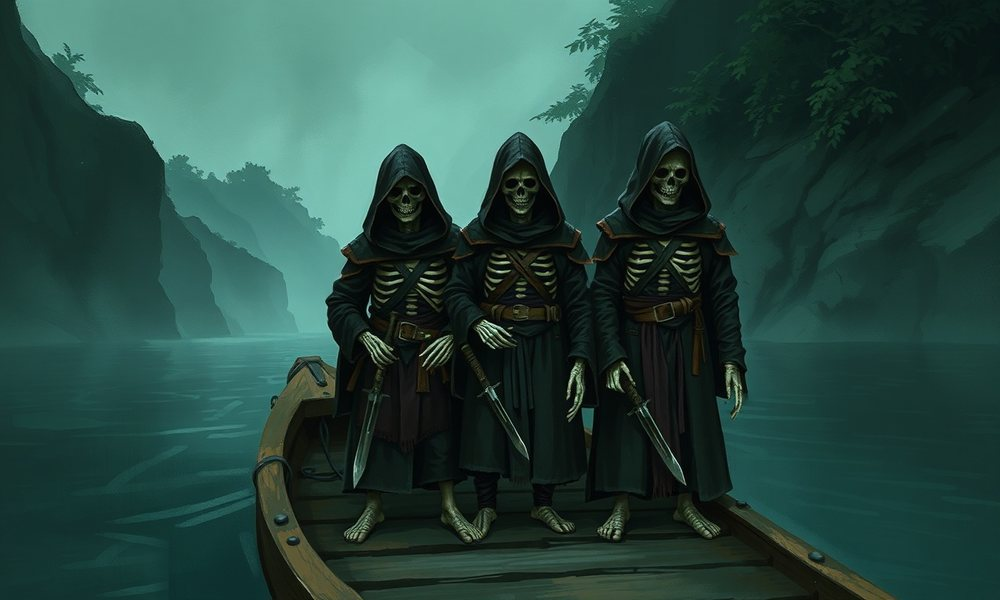
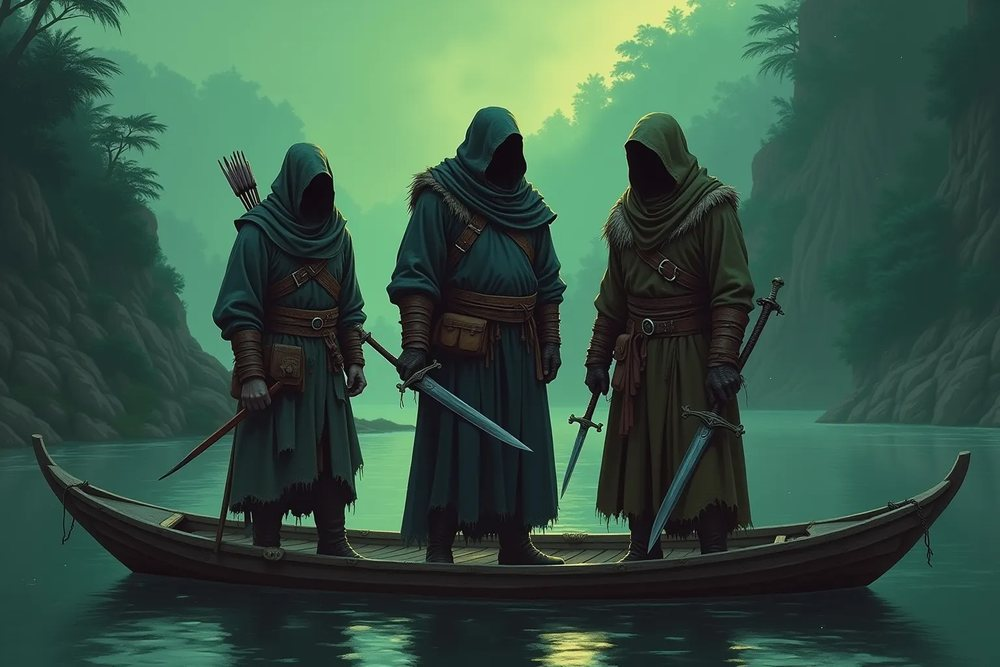
feat: Untote klug erneuern und vermummte Diener im Bild
- Neue Aktion „Erneuern“ (Gefolge, Spieltisch, Lange Rast): verbraucht
  den kleinsten freien Platz ab Grad 3, erneuert bis zu 4 Untote
  (Grad 4: 6) für 24 Stunden ab jetzt
- Dialog „Lange Rast“: Erinnerung, vor der Rast mit einem übrigen Platz
  zu erneuern; Arkane Erholung weist auf fehlenden Grad-3-Platz hin
- Taktik-Handbuch: „Tote erwecken: klug erneuern“ mit Abend-Trick,
  Arkaner Erholung, Höchstzahl ohne Nekromantenschule, Aufbauplan
- Regeltexte: 24 Stunden ab dem Wirken, Verfall entscheidet der DM;
  neue DM-Frage zu verfallenen Untoten
- Neues Bild der stummen Diener mit echter Vermummung (FLUX.1-dev über
  Hugging Face, kostenlos), Bildunterschrift und Bildausschnitt angepasst

diff --git a/app/src/routes/gefolge/+page.svelte b/app/src/routes/gefolge/+page.svelte
@@ -5,6 +5,7 @@
 	import Callout from '$lib/components/Callout.svelte';
 	import Markdown from '$lib/components/Markdown.svelte';
 	import SourceChip from '$lib/components/SourceChip.svelte';
+	import RenewMinions from '$lib/components/RenewMinions.svelte';
 	import { campaign } from '$lib/stores/campaign.svelte';
 	import { FAMILIAR_MATERIAL, addMinion, removeMinion, summonFamiliar } from '$lib/game';
 	import { diceDe, fmtMod } from '$lib/rules';
@@ -39,7 +40,7 @@
 {#if cr.retinueImage}
 	{@const img = cr.retinueImage}
 	<figure class="panel relative mb-6 overflow-hidden">
-		<img src="/api/assets/{img.file}" alt={img.title} class="h-56 w-full object-cover object-[50%_42%] sm:h-72" />
+		<img src="/api/assets/{img.file}" alt={img.title} class="h-60 w-full object-cover object-[50%_20%] sm:h-80" />
 		<figcaption class="absolute inset-x-0 bottom-0 bg-gradient-to-t from-black/85 via-black/55 to-transparent px-5 pt-12 pb-4">
 			<div class="title-display text-2xl text-white sm:text-3xl">{img.title}</div>
 			<p class="mt-1 max-w-2xl text-sm leading-relaxed text-white/80">{img.caption}</p>
@@ -52,7 +53,8 @@
 <section class="panel panel-glow mb-6 p-5">
 	<div class="mb-4 flex flex-wrap items-center justify-between gap-3">
 		<div class="flex items-center gap-2"><Skull size={18} class="text-s-nekro" /><h2 class="title-display text-3xl">Deine Untoten</h2></div>
-		<div class="flex gap-2">
+		<div class="flex flex-wrap gap-2">
+			<RenewMinions />
 			<button class="btn btn-sm" onclick={() => addMinion('skelett')}><Plus size={13} />Skelett</button>
 			<button class="btn btn-sm" onclick={() => addMinion('zombie')}><Plus size={13} />Zombie</button>
 		</div>
@@ -64,7 +66,7 @@
 				{@const act = block?.actions.find((a) => a.name === block.loadout?.find((l) => l.item === m.gear)?.action)}
 				<div class="sunken p-3">
 					<div class="flex items-center gap-3">
-						<button onclick={() => minion(m.id, (x) => (x.renewed = !x.renewed))} title={m.renewed ? 'Kontrolle erneuert' : 'Kontrolle läuft aus! Erneuern: 1 Minute, Grad-3-Platz für bis zu 4'}>
+						<button onclick={() => minion(m.id, (x) => (x.renewed = !x.renewed))} title={m.renewed ? 'Heute erneuert: gehorcht 24 Stunden ab dem Erneuern' : 'Noch erneuern, spätestens 24 Stunden nach dem letzten Mal. Am klügsten abends vor der langen Rast mit einem Platz, den du nicht mehr brauchst'}>
 							{#if m.renewed}<CircleCheck size={18} class="text-life" />{:else}<CircleAlert size={18} class="text-warn" />{/if}
 						</button>
 						<input class="min-w-0 flex-1 bg-transparent text-sm font-medium outline-none" value={m.name} onchange={(e) => minion(m.id, (x) => (x.name = e.currentTarget.value))} aria-label="Name" />
@@ -87,10 +89,11 @@
 			{/each}
 		</div>
 	{:else}
-		<p class="text-sm text-ink-3">Noch keine Untoten erschaffen. Beim Erwecken bekommen sie ihre Waffen: erst den Kurzbogen, dann die beiden Society-Dolche. Nach jeder langen Rast markiert das Grimoire sie als „Kontrolle erneuern“.</p>
+		<p class="text-sm text-ink-3">Noch keine Untoten erschaffen. Beim Erwecken bekommen sie ihre Waffen: erst den Kurzbogen, dann die beiden Society-Dolche. Nach jeder langen Rast markiert das Grimoire sie als „noch erneuern“.</p>
 	{/if}
-	<div class="mt-4 grid gap-3 md:grid-cols-3">
-		<Callout type="rule" title="24-Stunden-Kontrolle">Vor Ablauf erneut wirken (1 Minute, alle in 3 m). Ein Grad-3-Platz hält bis zu 4 Untote. Verfallene Untote sind frei und meist feindlich.</Callout>
+	<div class="mt-4 grid gap-3 md:grid-cols-2 2xl:grid-cols-4">
+		<Callout type="rule" title="24 Stunden ab dem Wirken">Die Kontrolle hält 24 Stunden ab dem Wirken, nicht ab einer Rast. Erneuern darfst du jederzeit vorher: 1 Minute, alle in 3 m, ein Grad-3-Platz für bis zu 4 Untote (Grad 4: 6). Verfällt sie, gehorchen sie nicht mehr. Was sie dann tun, entscheidet der DM.</Callout>
+		<Callout type="tip" title="Abends erneuern">Erneuere kurz vor der langen Rast mit einem Grad-3-Platz, den du nicht mehr brauchst: Die Rast gibt ihn gleich zurück. Tagsüber bleiben dir alle Grad-3-Plätze. Keiner mehr frei? Nach einer kurzen Rast holt die Arkane Erholung einen zurück. <a class="text-astral hover:underline" href="/archiv/taktik#tote-erwecken-klug-erneuern">Mehr im Taktik-Handbuch</a></Callout>
 		<Callout type="tip" title="Ein Befehl für alle">Eine Bonusaktion steuert alle Untoten in 18 m mit demselben Befehl. Allgemeine Befehle („Bewacht den Gang“) laufen ohne weitere Bonusaktionen.</Callout>
 		<Callout type="warning" title="Nur Humanoide">Knochen werden zum Skelett, Leichen zum Zombie, immer von kleinen oder mittelgroßen Humanoiden. Tierkadaver gehen nicht.</Callout>
 	</div>

diff --git a/app/src/lib/components/RestDialog.svelte b/app/src/lib/components/RestDialog.svelte
@@ -1,19 +1,23 @@
 <script lang="ts">
 	/** Kurze und lange Rast mit Trefferwürfeln, Arkaner Erholung und Trance-Wahl. */
-	import { Moon, Coffee, Dices, Sparkles } from '@lucide/svelte';
+	import { Moon, Coffee, Dices, Sparkles, Skull } from '@lucide/svelte';
 	import Modal from './Modal.svelte';
 	import Pips from './Pips.svelte';
 	import TranceSelect from './TranceSelect.svelte';
 	import SpellSets from './SpellSets.svelte';
+	import RenewMinions from './RenewMinions.svelte';
 	import { campaign } from '$lib/stores/campaign.svelte';
 	import { ui } from '$lib/stores/ui.svelte';
 	import { arcaneRecovery, longRest, spendHitDie } from '$lib/game';
-	import { featureLeft, hitDiceLeft, slotTotals } from '$lib/rules';
+	import { featureLeft, hitDiceLeft, lowestFreeSlot, slotTotals } from '$lib/rules';
 
 	const c = $derived(campaign.data.character);
 	const s = $derived(campaign.data.state);
 	const recoveryLeft = $derived(featureLeft(c, s, 'arkane-erholung'));
 	const budget = $derived(Math.ceil(c.level / 2));
+	/** Untote, die heute noch erneuert werden müssen, und ob dafür ein Grad-3-Platz frei ist */
+	const openMinions = $derived(s.minions.filter((m) => !m.renewed).length);
+	const free3 = $derived(lowestFreeSlot(c, s, 3));
 
 	let picked = $state<number[]>([]);
 	let healed = $state<number[]>([]);
@@ -65,6 +69,9 @@
 				<p class="text-sm text-ink-3">Heute schon genutzt. Wieder verfügbar nach der nächsten langen Rast.</p>
 			{:else}
 				<p class="mb-3 text-sm text-ink-2">Wähle verbrauchte Plätze, zusammen höchstens <b class="text-ink">{budget} Grade</b>. Gewählt: <b class="num text-ink">{pickedSum}</b></p>
+				{#if openMinions && free3 === null}
+					<p class="mb-3 rounded-lg bg-s-nekro/10 px-3 py-2 text-xs text-ink-2"><Skull size={12} class="mr-1 inline text-s-nekro" />Deine Untoten brauchen heute noch einen Grad-3-Platz. Hol ihn hier zurück, wenn du ihn nicht für etwas anderes brauchst.</p>
+				{/if}
 				<div class="flex flex-wrap gap-2">
 					{#each slotTotals(c) as sl (sl.level)}
 						{#each Array.from({ length: Math.max(0, usedOf(sl.level)) }) as _, i (i)}
@@ -99,8 +106,25 @@
 			<li>Alle Zauberplätze, Sternenschritt, Arkane Erholung und die Ohrring-Botschaft zurück</li>
 			<li>Trefferwürfel: +{Math.max(1, Math.floor(c.level / 2))} (jetzt {hitDiceLeft(c, s)}/{c.level})</li>
 			<li>Konzentration, Schild und Unsichtbarer Diener enden. Erschöpfung −1, falls vorhanden.</li>
-			{#if s.minions.length}<li class="text-warn">Untote: Die 24 Stunden laufen weiter. Kontrolle erneuern nicht vergessen (1 Minute, Grad-3-Platz für bis zu 4).</li>{/if}
 		</ul>
+		{#if s.minions.length}
+			<div class="sunken p-4">
+				<div class="mb-1 flex items-center gap-2 font-medium"><Skull size={15} class="text-s-nekro" />Untote vor der Rast erneuern</div>
+				{#if openMinions}
+					<p class="mb-2 text-xs leading-relaxed text-ink-2">
+						Jetzt ist der beste Moment: Die Rast gibt dir den Platz gleich zurück, und deine Untoten gehorchen 24 Stunden ab jetzt. {openMinions} von {s.minions.length} noch nicht erneuert.
+					</p>
+					{#if free3 === null}
+						<p class="mb-2 text-xs text-warn">
+							{recoveryLeft > 0 ? 'Kein Grad-3-Platz frei: Mach zuerst eine kurze Rast, die Arkane Erholung holt einen zurück.' : 'Kein Grad-3-Platz und keine Arkane Erholung mehr: Die Kontrolle hält nur bis 24 Stunden nach dem letzten Erneuern. Plane morgen früh einen Grad-3-Platz dafür ein.'}
+						</p>
+					{/if}
+				{:else}
+					<p class="mb-2 text-xs text-ink-2">Heute schon erneuert. Hast du morgens erneuert, kannst du jetzt mit einem übrigen Platz noch einmal: Dann gehorchen sie bis morgen Abend.</p>
+				{/if}
+				<RenewMinions />
+			</div>
+		{/if}
 		<div class="sunken p-4">
 			<div class="mb-2 font-medium">Astrale Trance: Übung für heute</div>
 			<TranceSelect />

diff --git a/app/src/lib/components/print/PRetinue.svelte b/app/src/lib/components/print/PRetinue.svelte
@@ -47,8 +47,9 @@
 			/>
 		{/each}
 	</div>
-	<div class="grid g3" style="gap: 3mm; margin-top: 3mm">
-		<div class="callout callout-rule"><div class="callout-title" data-label="Regel">24-Stunden-Kontrolle</div><p class="small">Vor Ablauf erneut wirken (1 Minute, alle in 3 m). Ein Grad-3-Platz hält bis zu 4 Untote. Verfallene Untote sind frei und meist feindlich.</p></div>
+	<div class="grid g2" style="gap: 3mm; margin-top: 3mm">
+		<div class="callout callout-rule"><div class="callout-title" data-label="Regel">24 Stunden ab dem Wirken</div><p class="small">Die Kontrolle hält 24 Stunden ab dem Wirken, nicht ab einer Rast. Erneuern darfst du jederzeit vorher: 1 Minute, alle in 3 m, ein Grad-3-Platz für bis zu 4 Untote (Grad 4: 6). Verfällt sie, gehorchen sie nicht mehr. Was sie dann tun, entscheidet der DM.</p></div>
+		<div class="callout callout-tip"><div class="callout-title" data-label="Tipp">Abends erneuern</div><p class="small">Erneuere kurz vor der langen Rast mit einem Grad-3-Platz, den du nicht mehr brauchst: Die Rast gibt ihn gleich zurück. Tagsüber bleiben dir alle Grad-3-Plätze. Keiner mehr frei? Nach einer kurzen Rast holt die Arkane Erholung einen zurück.</p></div>
 		<div class="callout callout-tip"><div class="callout-title" data-label="Tipp">Ein Befehl für alle</div><p class="small">Eine Bonusaktion steuert alle Untoten in 18 m mit demselben Befehl. Allgemeine Befehle laufen ohne weitere Bonusaktionen.</p></div>
 		<div class="callout callout-warning"><div class="callout-title" data-label="Achtung">Nur Humanoide</div><p class="small">Knochen werden zum Skelett, Leichen zum Zombie, immer von kleinen oder mittelgroßen Humanoiden.</p></div>
 	</div>

diff --git a/app/src/lib/components/RenewMinions.svelte b/app/src/lib/components/RenewMinions.svelte
@@ -1,0 +1,25 @@
+<script lang="ts">
+	/** Untote erneuern: Tote erwecken mit dem kleinsten freien Platz ab Grad 3 (hält bis zu 4 weitere 24 Stunden). */
+	import { RefreshCw } from '@lucide/svelte';
+	import { campaign } from '$lib/stores/campaign.svelte';
+	import { renewCapacity, renewMinions } from '$lib/game';
+	import { lowestFreeSlot } from '$lib/rules';
+
+	let { size = 'sm' }: { size?: 'sm' | 'xs' } = $props();
+
+	const c = $derived(campaign.data.character);
+	const s = $derived(campaign.data.state);
+	const open = $derived(s.minions.filter((m) => !m.renewed).length);
+	const slot = $derived(lowestFreeSlot(c, s, 3));
+	const prepared = $derived(!!campaign.data.spells.find((x) => x.id === 'tote-erwecken')?.prepared);
+	const label = $derived(slot === null ? 'Kein Grad-3-Platz' : !prepared ? 'Tote erwecken nicht vorbereitet' : `Erneuern · Grad ${slot}`);
+	const title = $derived(
+		`${open ? `${open} von ${s.minions.length} noch nicht erneuert` : 'Alle erneuert'}. Ein Platz hält bis zu ${renewCapacity(slot ?? 3)} Untote 24 Stunden ab jetzt (1 Minute, alle in 3 m). Am klügsten abends vor der langen Rast.`
+	);
+</script>
+
+{#if s.minions.length}
+	<button class="btn btn-{size} {open && slot !== null && prepared ? 'btn-primary' : ''}" disabled={slot === null || !prepared} onclick={() => slot !== null && renewMinions(slot)} {title}>
+		<RefreshCw size={size === 'xs' ? 11 : 13} />{label}
+	</button>
+{/if}

diff --git a/app/src/lib/game.ts b/app/src/lib/game.ts
@@ -248,6 +248,31 @@ export function addMinion(kind: Minion['kind']) {
 	save();
 }
 
+/** Wie viele Untote ein Wirken von Tote erwecken erneuert: 4 mit Grad 3, je Grad darüber 2 mehr. */
+export function renewCapacity(slotLevel: number): number {
+	return slotLevel < 3 ? 0 : 4 + 2 * (slotLevel - 3);
+}
+
+/**
+ * Tote erwecken zum Erneuern wirken: Die Kontrolle hält 24 Stunden ab jetzt.
+ * Verbraucht einen Platz ab Grad 3 und erneuert die noch offenen Untoten zuerst.
+ */
+export function renewMinions(slotLevel: number) {
+	const s = st();
+	if (slotLevel < 3 || slotsLeft(ch(), s, slotLevel) <= 0) {
+		rolls.event('Kein Platz frei', 'Erneuern braucht einen Platz ab Grad 3', 'bad');
+		return false;
+	}
+	const chosen = [...s.minions].sort((a, b) => Number(a.renewed) - Number(b.renewed)).slice(0, renewCapacity(slotLevel));
+	if (!chosen.length) return false;
+	s.slotsUsed[String(slotLevel)] = (s.slotsUsed[String(slotLevel)] ?? 0) + 1;
+	for (const m of chosen) m.renewed = true;
+	const open = s.minions.filter((m) => !m.renewed).length;
+	rolls.event('Untote erneuert', `${chosen.length} gehorchen 24 Stunden ab jetzt · Grad ${slotLevel}${open ? ` · ${open} noch offen` : ''}`, 'good');
+	save();
+	return true;
+}
+
 export function removeMinion(id: string) {
 	st().minions = st().minions.filter((m) => m.id !== id);
 	save();

diff --git a/app/src/lib/components/play/RetinueCard.svelte b/app/src/lib/components/play/RetinueCard.svelte
@@ -2,6 +2,7 @@
 	import { Bird, Ghost, Skull, Plus, Minus, X, CircleCheck, CircleAlert } from '@lucide/svelte';
 	import { campaign } from '$lib/stores/campaign.svelte';
 	import { FAMILIAR_MATERIAL, addMinion, removeMinion, summonFamiliar } from '$lib/game';
+	import RenewMinions from '$lib/components/RenewMinions.svelte';
 
 	const s = $derived(campaign.data.state);
 	const cr = $derived(campaign.data.creatures);
@@ -74,10 +75,11 @@
 		</div>
 	</div>
 	{#if s.minions.length}
+		{#if s.minions.some((m) => !m.renewed)}<div class="mb-2 flex justify-end"><RenewMinions size="xs" /></div>{/if}
 		<ul class="space-y-1.5">
 			{#each s.minions as m (m.id)}
 				<li class="flex items-center gap-2 rounded-lg bg-white/[0.02] px-2 py-1.5">
-					<button onclick={() => renew(m.id)} title={m.renewed ? 'Kontrolle erneuert' : 'Kontrolle erneuern! (1 Minute, Grad-3-Platz für bis zu 4)'}>
+					<button onclick={() => renew(m.id)} title={m.renewed ? 'Heute erneuert: gehorcht 24 Stunden ab dem Erneuern' : 'Noch erneuern, spätestens 24 Stunden nach dem letzten Mal. Am klügsten abends vor der langen Rast mit einem Platz, den du nicht mehr brauchst'}>
 						{#if m.renewed}<CircleCheck size={15} class="text-life" />{:else}<CircleAlert size={15} class="text-warn" />{/if}
 					</button>
 					<span class="min-w-0 flex-1">

diff --git a/app/src/lib/components/print/PTracker.svelte b/app/src/lib/components/print/PTracker.svelte
@@ -97,7 +97,7 @@
 				{/each}
 			</tbody>
 		</table>
-		<p class="tiny muted" style="margin: 1mm 0 0">Skelett RK 13, 13 TP, Kurzbogen +4 (1W6 + 2), Dolch +4 (1W4 + 2) · Zombie RK 8, 22 TP · Erneuern: 1 Minute, Grad-3-Platz für bis zu 4.</p>
+		<p class="tiny muted" style="margin: 1mm 0 0">Skelett RK 13, 13 TP, Kurzbogen +4 (1W6 + 2), Dolch +4 (1W4 + 2) · Zombie RK 8, 22 TP · Erneuern: 1 Minute, Grad-3-Platz für bis zu 4, am klügsten abends vor der Rast.</p>
 	</div>
 
 	<div class="grid" style="grid-template-columns: 1.6fr 1fr; gap: 4mm; margin-top: 2.5mm">

diff --git a/app/src/routes/druck/print.css b/app/src/routes/druck/print.css
@@ -865,9 +865,9 @@ html:has(.druck) body {
 .druck .retinue-img img {
 	display: block;
 	width: 100%;
-	height: 62mm;
+	height: 70mm;
 	object-fit: cover;
-	object-position: 50% 42%;
+	object-position: 50% 22%;
 	border-radius: 2mm;
 }
 .druck .retinue-img figcaption {

diff --git a/campaign/docs/taktik.md b/campaign/docs/taktik.md
@@ -189,16 +189,39 @@ Der Eisriese entspricht dem **Frostriesen** des Monsterhandbuchs.
 - **Ab Stufe 6:** Mit *Gutartiges Versetzen* tauschst du per Aktion den Platz mit Aella. Sie steht sofort an der Front, du bist aus der Gefahr. Mit *[[Hypnotisches Muster]]* fällt eine ganze Gruppe Riesen aus, mit *[[Flutwelle]]* liegen sie am Boden. Siehe [[Stufe-6-Planer]].
 - **Nicht vergessen:** *Person festhalten* wirkt nicht gegen Riesen, nur gegen Humanoide wie die Orcs.
 
-## Tote erwecken: Logistik
+## Tote erwecken: klug erneuern
 
-| Plätze Grad 3 | Untote, die du dauerhaft hältst | Rest |
-| :-- | :-- | :-- |
-| 1 | bis zu 4 | 1 Platz für *Gegenzauber* |
-| 2 | bis zu 8 | kein *Gegenzauber* mehr |
+**Kurz:** Das Erneuern kostet dich **einen** Grad-3-Platz pro Tag, nicht alle. Ein Wirken hält bis zu 4 Untote weitere 24 Stunden. Mit dem Abend-Trick kostet es dich praktisch nichts.
 
-- **Aufbau:** Jeder neue Untote kostet einen Grad-3-Platz und 1 Minute. 4 Skelette brauchen also 4 Wirkungen über mehrere Tage, während du die vorhandenen weiter erneuerst.
-- **Erneuern:** 1 Minute, alle Untoten höchstens 3 m entfernt, vor Ablauf der 24 Stunden.
-- **Arkane Erholung** kann einen Grad-3-Platz zurückholen (1× pro Tag).
+**Die Regel:** Die Kontrolle hält 24 Stunden **ab dem Wirken**, nicht ab einer Rast. Erneuern darfst du jederzeit vorher: 1 Minute Wirkzeit, alle Untoten höchstens 3 m entfernt.
+
+| Platz | erneuert | oder erweckt neu |
+| :-- | :-: | :-: |
+| Grad 3 | bis zu 4 | 1 |
+| Grad 4 (ab Stufe 7) | bis zu 6 | 3 |
+| Grad 5 (ab Stufe 9) | bis zu 8 | 5 |
+
+### Der Abend-Trick
+
+1. **Tagsüber** hast du alle Grad-3-Plätze für *Gegenzauber*, neue Untote und ab Stufe 6 für *Hypnotisches Muster* und *Flutwelle*.
+2. **Abends, kurz vor der langen Rast,** erneuerst du mit einem Grad-3-Platz, den du nicht mehr brauchst. Die Rast gibt ihn dir sofort zurück.
+3. **Deine Untoten gehorchen dann bis zum nächsten Abend.** Du wiederholst das jeden Abend, immer bevor 24 Stunden seit dem letzten Mal vergangen sind.
+
+Das Grimoire hilft dabei: Der Dialog „Lange Rast“ erinnert dich, und der Knopf „Erneuern“ auf der Gefolge-Seite und am Spieltisch verbraucht den Platz.
+
+### Wenn abends kein Grad-3-Platz übrig ist
+
+- **Arkane Erholung:** Nach einer kurzen Rast holst du einmal am Tag Plätze bis zusammen 3 Grade zurück, also genau einen Grad-3-Platz. An Kampftagen ist sie deine Versicherung für die Untoten. Hast du abends noch einen Grad-3-Platz, holst du mit ihr lieber *Netz* und *Schild* zurück.
+- **Vorausplanen:** Weißt du morgens schon, dass ein harter Tag kommt, halte einen Grad-3-Platz zurück.
+- **Notfalls morgens:** Klappt es abends nicht, erneuerst du gleich nach der Rast, spätestens 24 Stunden nach dem letzten Mal. Dann kostet es einen Platz dieses Tages.
+- **Nie verfallen lassen:** Danach gehorchen sie nicht mehr, und was sie dann tun, entscheidet der DM (Frage auf der [[Rätselwand]]). Brauchst du sie nicht mehr, zerstöre sie, solange sie noch gehorchen.
+
+### Wie viele Untote?
+
+- **Höchstens 4 bis Stufe 6.** So viele hält ein Grad-3-Platz. Ein fünfter Untoter kostet dich jeden Tag einen zweiten Platz. Ab Stufe 7 hält ein Grad-4-Platz 6.
+- **Du bist kein Nekromant.** Nekromanten bekommen ab Stufe 6 ein Merkmal (Undead Thralls), das pro Wirken einen Untoten mehr erweckt und sie stärker macht. Als Beschwörer bekommst du das nicht. Eine kleine, gut ausgerüstete Leibwache ist für dich klüger als ein Heer.
+- **Aufbau mit den 3 Orc-Skeletten vom Boot:** Jedes neue Skelett kostet einen eigenen Grad-3-Platz und gehorcht 24 Stunden ab dem Erwecken. Erwecke sie also auch abends, dann laufen alle im selben Rhythmus: am ersten Abend zwei Skelette mit beiden Plätzen, am zweiten Abend erneuern und das dritte erwecken.
+- **Perle der Macht** (Wunsch an Saladin): holt einmal am Tag einen Platz bis Grad 3 zurück. Damit ist das Erneuern immer gedeckt.
 - **Rohstoff:** nur humanoide Knochen (Skelette) oder Leichen (Zombies). Vorrat: 3 Orc-Skelette auf dem Boot. Weitere Knochen: das Schlachtfeld im Südosten.
 
 ## Positionierung

diff --git a/campaign/assets/README.md b/campaign/assets/README.md
@@ -11,7 +11,7 @@ Abrufbar im Grimoire unter `/api/assets/<dateiname>`.
 | `karte-wueste.webp` | daraus verkleinert, 2400 px | `map.json` → `image` |
 | `floshem-portrait-druck.jpg` | Porträt auf Weiß, JPEG | Druckfassung |
 | `karte-wueste-druck.jpg` | Karte, 1800 px, JPEG | Druckfassung |
-| `diener.jpg` | KI-Bild, FLUX.1 Schnell über Pollinations (20.10.2026), Signatur unten links entfernt | Original der stummen Diener |
+| `diener.jpg` | KI-Bild, FLUX.1-dev über den Hugging-Face-Space `black-forest-labs/FLUX.1-dev` (ZeroGPU, kostenlos, Seed 11, 20.10.2026), winziger Phantasietext unten links entfernt | Original der stummen Diener |
 | `diener.webp` | daraus, 1280 px | `creatures.json` → `retinueImage` (Gefolge-Seite) |
 | `diener-druck.jpg` | daraus, 1000 px, JPEG | Druckfassung (Gefolge) |
 
@@ -20,15 +20,16 @@ als WebP speichern und die Dateinamen in `character.json` eintragen.
 
 **Druckversionen:** Gibt es zu einem Bild eine Datei `<name>-druck.jpg`, nimmt die Druckfassung (`/druck`) diese. Chrome bettet JPEGs unverändert ins PDF ein, WebP dagegen verlustfrei, was die PDFs stark aufbläht. Fehlt die Druckversion, wird das Original verwendet.
 
-**Die stummen Diener neu erzeugen:** Das Bild entstand mit dem Rest des Gratisguthabens (FLUX.1 Schnell), deshalb sind die
-Knochen offen zu sehen und keine der drei Figuren trägt den Bogen. Mit frischem Tagesguthaben geht es mit GPT Image 2 (kostenlos
-freigegeben, rund 0,035 bis 0,14 Pollen je Bild), Anfrage mit `private=true`. Danach `diener.jpg`, `diener.webp` und
-`diener-druck.jpg` ersetzen. Prompt:
+**Die stummen Diener neu erzeugen:** Mit `HF_TOKEN` über den Space `black-forest-labs/FLUX.1-dev` (1536 × 1024, Guidance 3,5,
+28 Schritte), das kostet nur GPU-Minuten des kostenlosen Kontingents. Danach `diener.jpg`, `diener.webp` (1280 px) und
+`diener-druck.jpg` (1000 px) ersetzen. Prompt:
 
-> Painterly fantasy illustration, Dungeons and Dragons character art, rich detail, moody dusk lighting. Three silent hooded
-> servants stand in a row on the deck of a small wooden river boat on a misty jungle river. They are skeletons hidden under long
-> hooded robes crudely stitched together from mismatched dark uniforms and rough leather and fur, covered from head to toe.
-> Deep hoods hide their faces in shadow, only a faint bony jaw and two tiny pale green lights show. Skeletal fingers hold their
-> weapons: the left servant holds a shortbow and wears a quiver of arrows, the other two each hold a plain steel dagger low at
-> their side. They stand perfectly still like loyal guards. Faint green magic drifts in the air, fireflies, dark jungle and
-> steep river banks behind them. Muted greens, deep browns and teal, painterly brushwork, no text, no watermark.
+> Painterly fantasy illustration in the style of Dungeons and Dragons character art, rich detail, moody dusk lighting. Three
+> silent servants stand in a row on the deck of a small wooden river boat on a misty jungle river at dusk. They are completely
+> disguised: long hooded robes crudely stitched together from mismatched dark uniforms and rough orcish leather and fur,
+> covering them from head to toe. Their faces are hidden behind dark cloth veils deep inside the shadow of their hoods, nothing
+> of the face is visible. Their hands are wrapped in dirty cloth strips. The servant on the left carries a shortbow in one hand
+> and a quiver of arrows on its back. The servant in the middle and the servant on the right each hold a plain steel dagger low
+> at their side. They stand perfectly still like loyal bodyguards, eerie and mysterious. Faint green magical glow drifts in the
+> air, fireflies, dark jungle and steep river banks behind them. Muted greens, deep browns and teal, painterly brushwork. No
+> text, no watermark, no signature.
